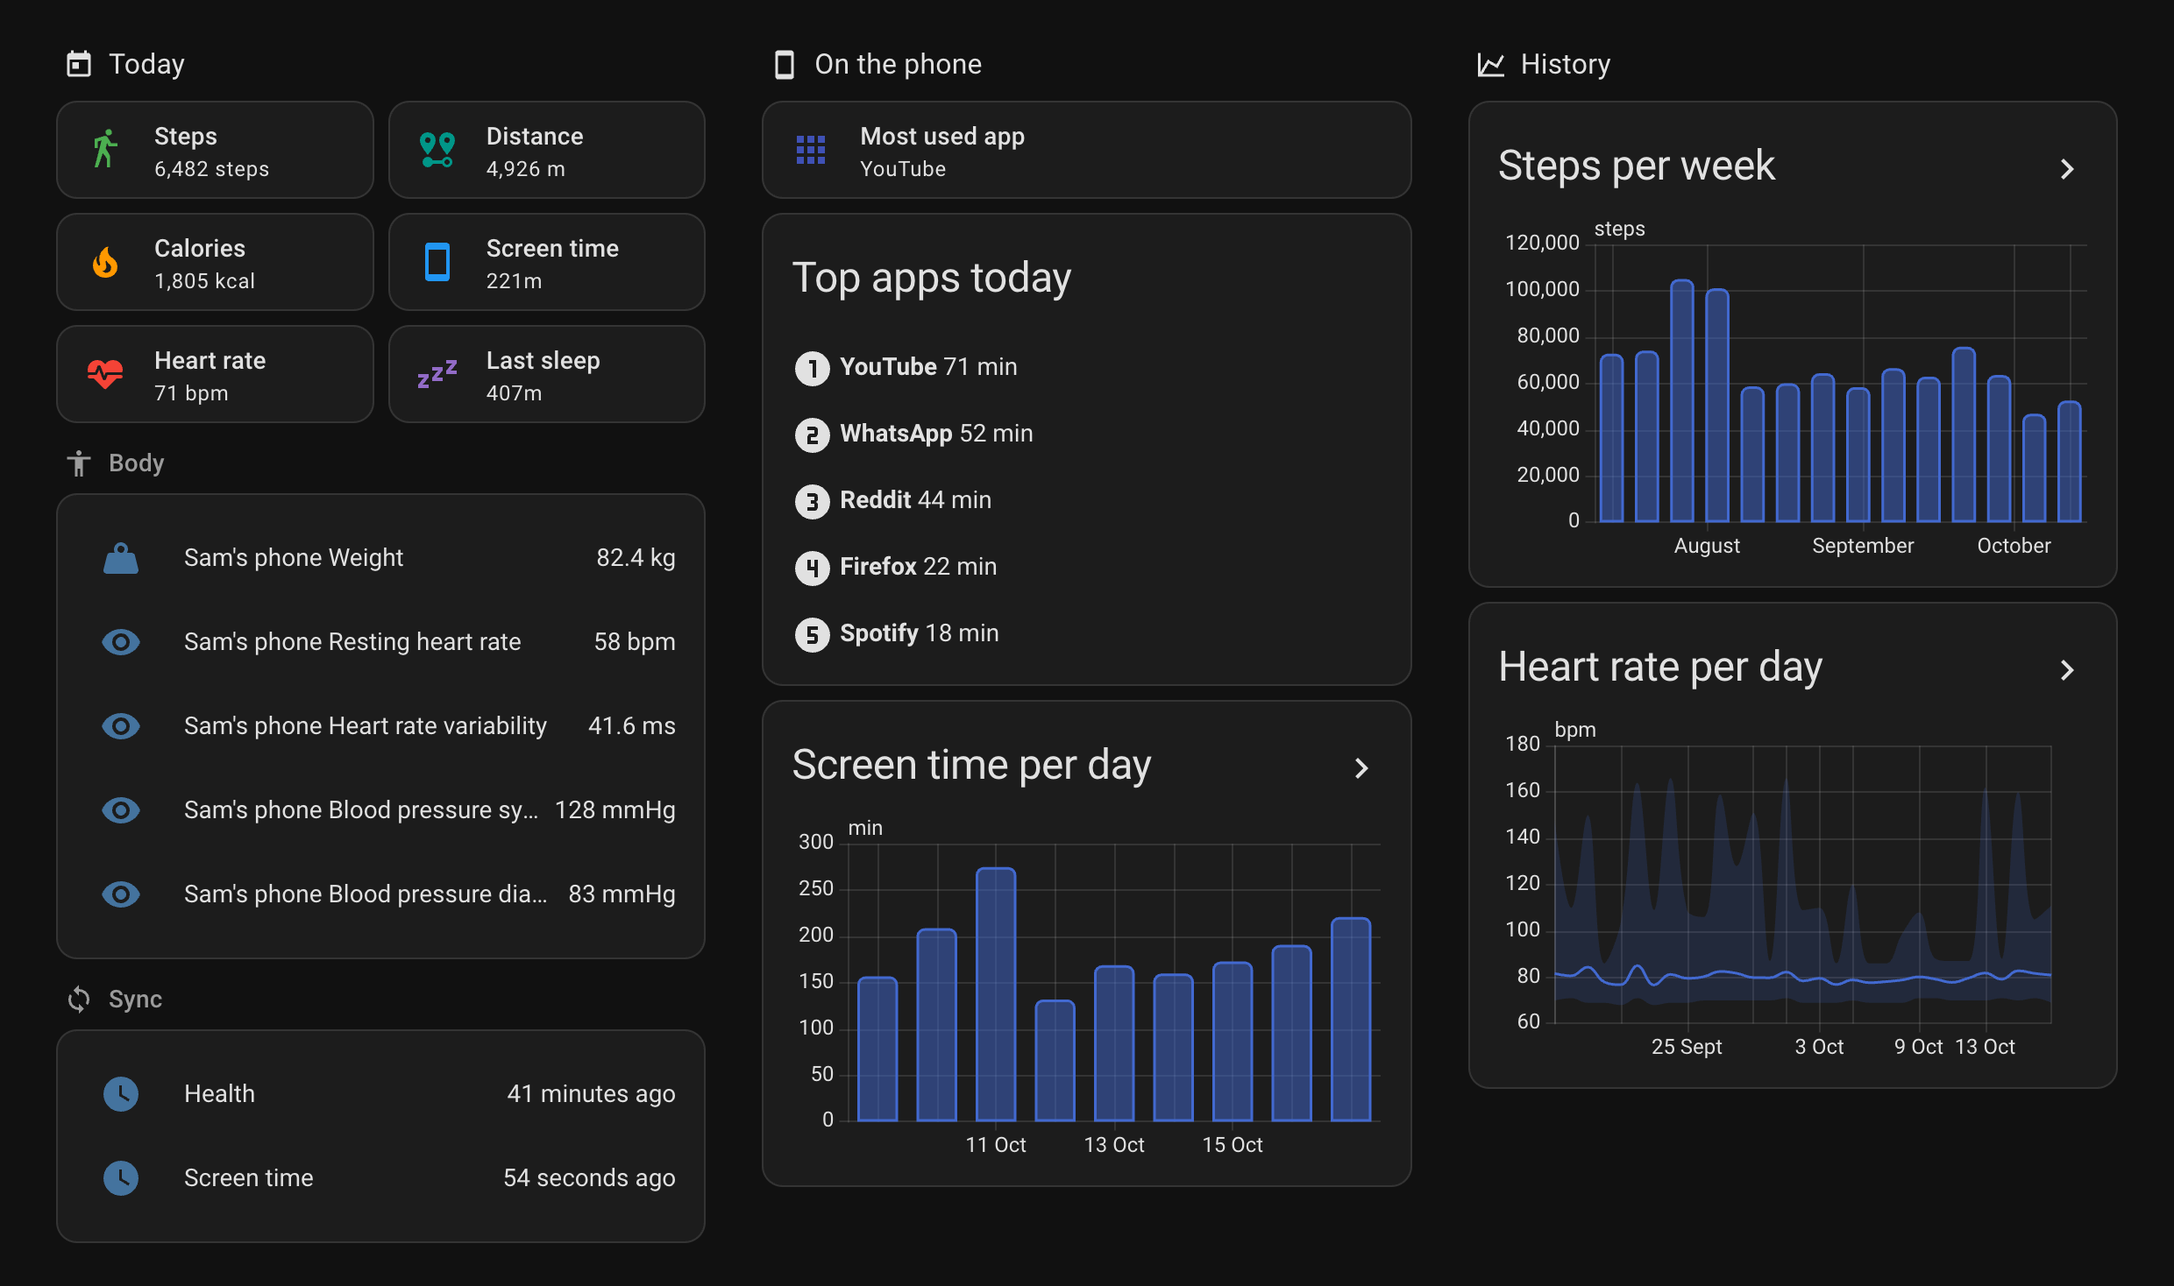
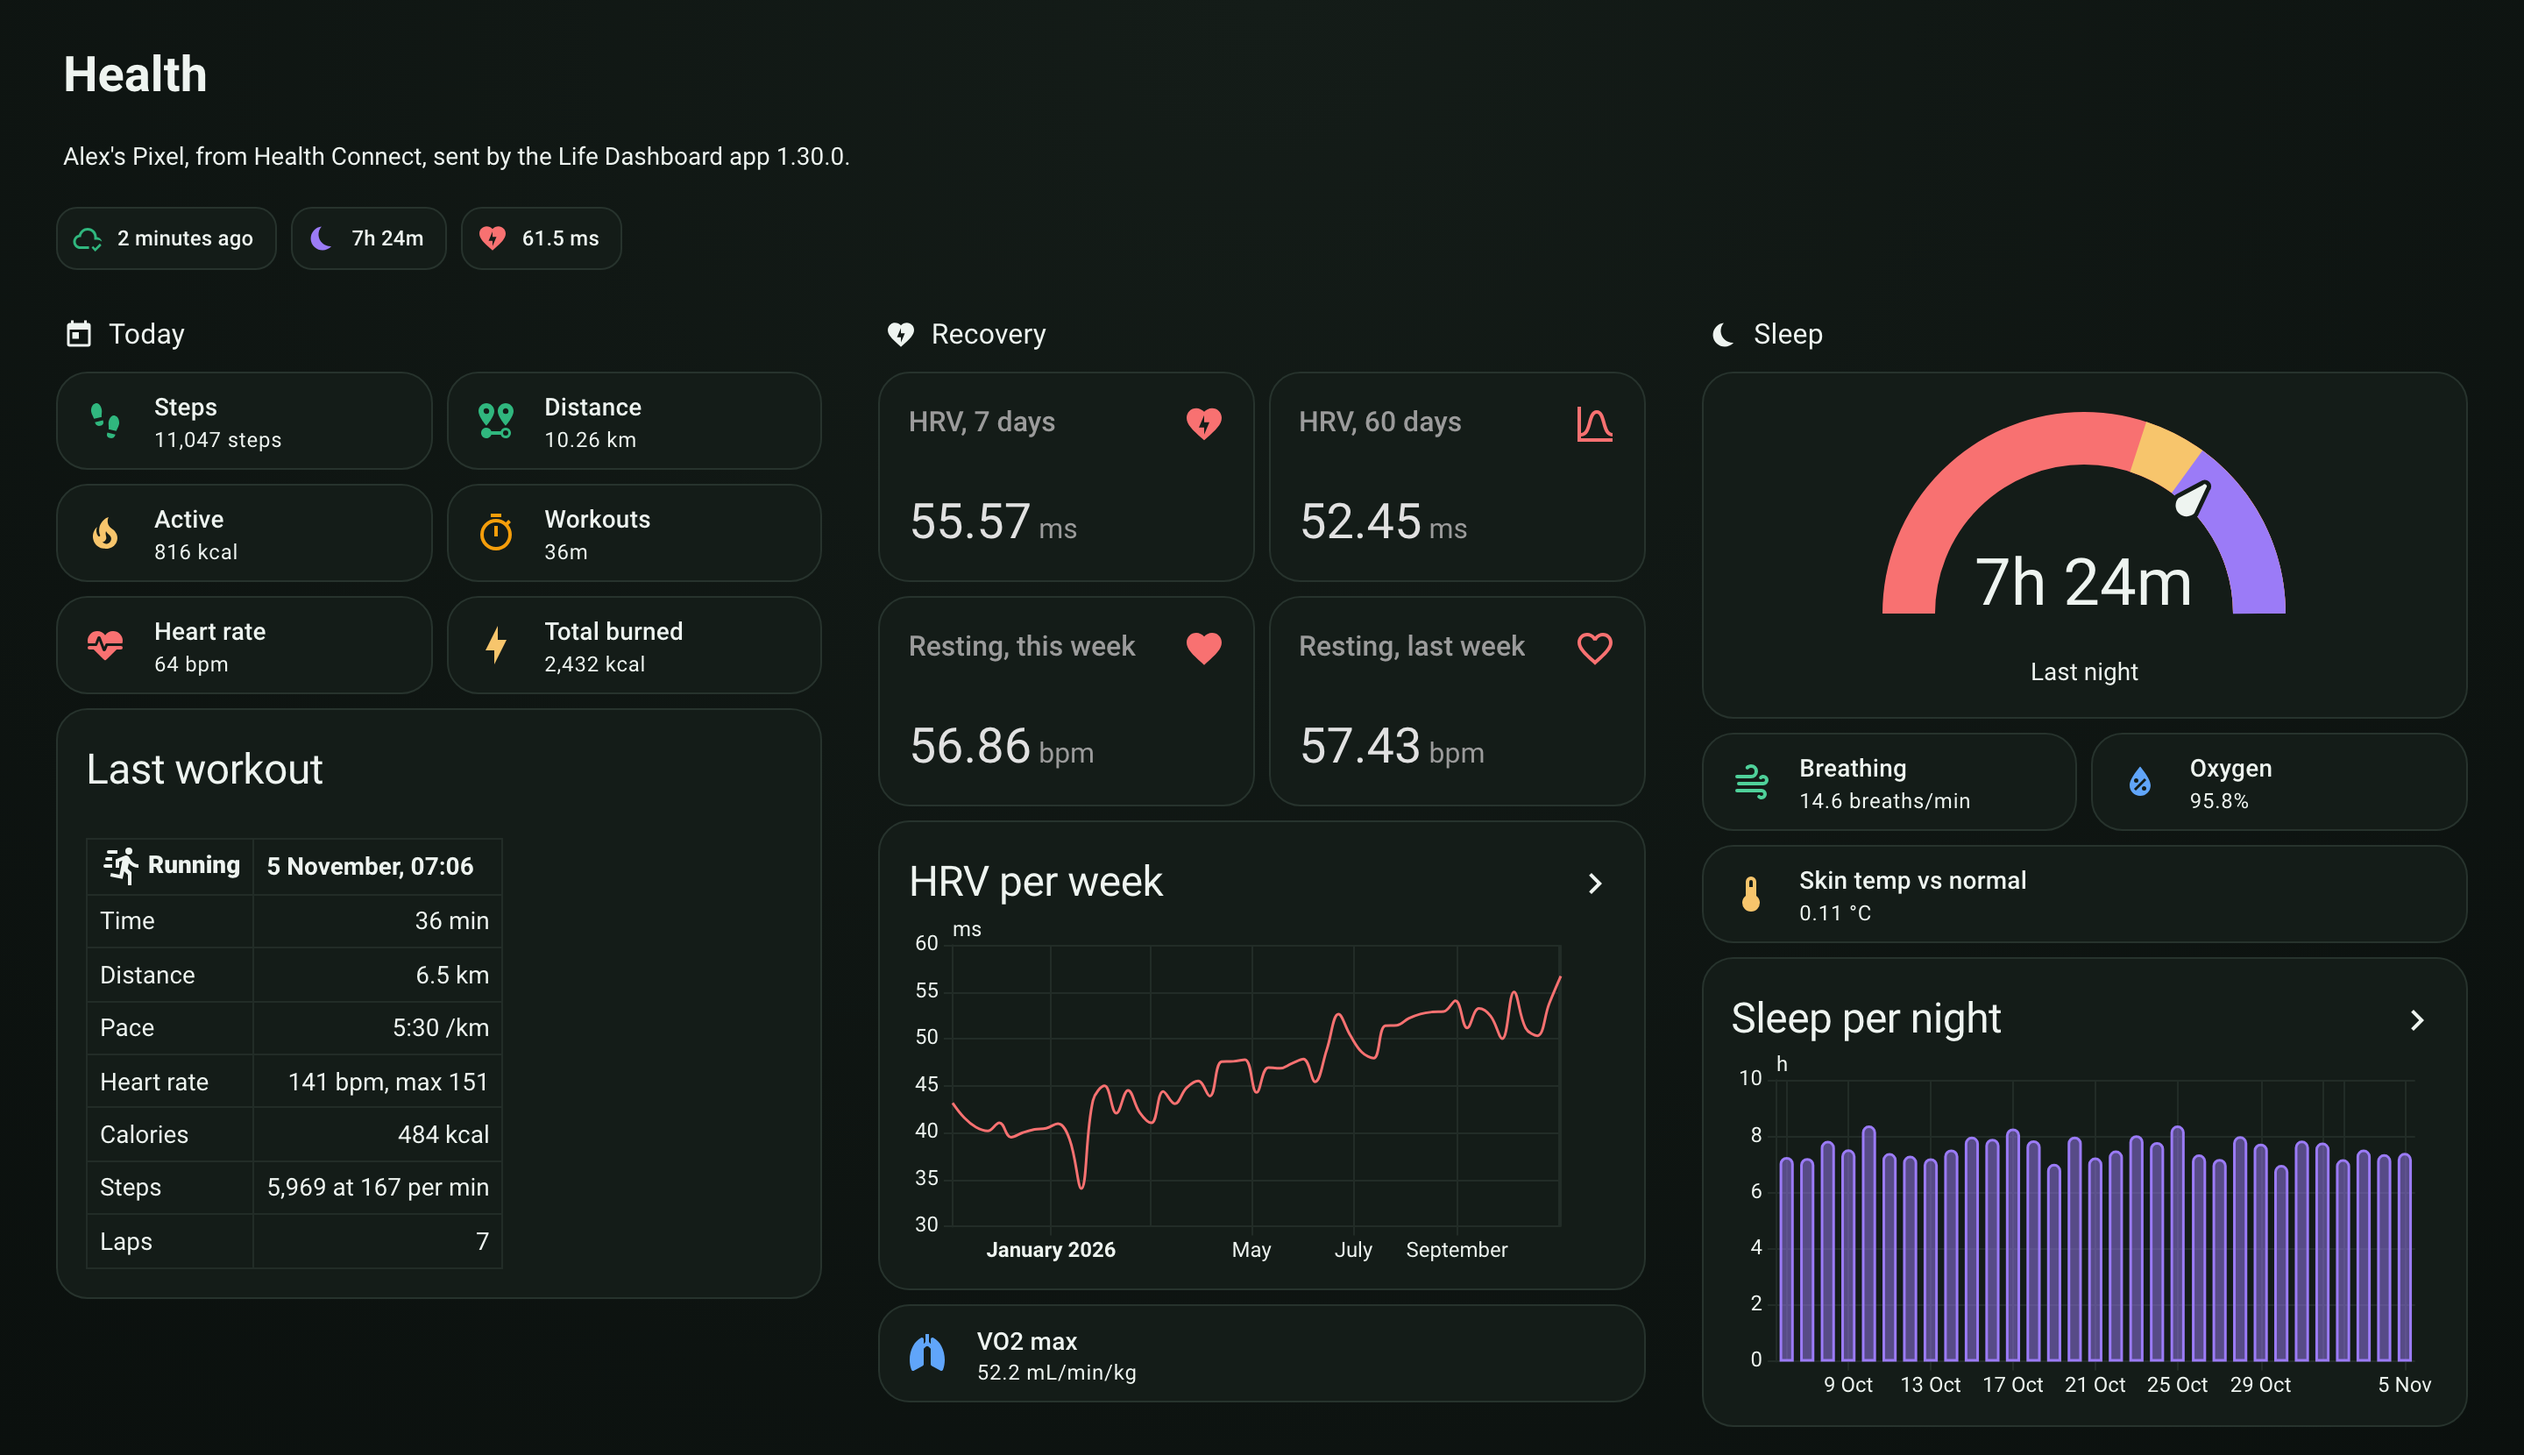
docs: Show the new Home Assistant dashboard in the README (#219)

diff --git a/docs/brand/readme-hero-phone.html b/docs/brand/readme-hero-phone.html
@@ -1,14 +1,15 @@
 <!DOCTYPE html>
 <!--
   Source for docs/readme-hero-phone.png, the phone version of the README hero
-  (readme-hero.html): two crops of the same dashboard screenshot, the Today tiles and the
-  screen time per day card, stacked so they stay readable on a screen about 400 px wide. The README
-  picks it with <picture> and a max-width media query. The crops are offsets into
-  docs/screenshots/home-assistant-dashboard.png (2480 x 1468) shown at 2837 px wide; after a
-  new screenshot, check that each crop still starts at a card edge.
+  (readme-hero.html): two crops, the Today tiles of the dashboard and the apps of the screen
+  time view, stacked so they stay readable on a screen about 400 px wide. The README picks it
+  with <picture> and a max-width media query. The crops are offsets into
+  docs/screenshots/home-assistant-dashboard.png and home-assistant-screen-time.png (both 2880
+  px wide) shown at 2883 px wide; after a new screenshot, check that each crop still starts at a
+  card edge.
 
     "/Applications/Google Chrome.app/Contents/MacOS/Google Chrome" \
-      --headless=new --screenshot=docs/readme-hero-phone.png --window-size=1000,1318 \
+      --headless=new --screenshot=docs/readme-hero-phone.png --window-size=1000,1438 \
       --hide-scrollbars --force-device-scale-factor=1 \
       --default-background-color=00000000 docs/brand/readme-hero-phone.html
 -->
@@ -17,7 +18,7 @@
 <meta charset="utf-8">
 <style>
   * { margin: 0; padding: 0; box-sizing: border-box; }
-  html, body { width: 1000px; height: 1318px; overflow: hidden; background: transparent; }
+  html, body { width: 1000px; height: 1438px; overflow: hidden; background: transparent; }
   .card {
     position: absolute; inset: 0; border-radius: 40px; overflow: hidden;
     background: radial-gradient(130% 130% at 25% 20%, #171D21 0%, #14181C 45%, #101C1C 100%);
@@ -34,18 +35,18 @@
     border: 3px solid rgba(255,255,255,0.12); background: #111;
     box-shadow: 0 24px 60px rgba(0,0,0,0.45), 0 0 0 10px rgba(255,255,255,0.025);
   }
-  .crop img { position: absolute; width: 2837px; height: auto; display: block; }
-  .today { top: 48px; height: 526px; }
-  .today img { left: -46px; top: -46px; }
-  .screen { top: 606px; height: 664px; }
-  .screen img { left: -967px; top: -903px; }
+  .crop img { position: absolute; width: 2883px; height: auto; display: block; }
+  .today { top: 48px; height: 470px; }
+  .today img { left: -49px; top: -344px; }
+  .screen { top: 550px; height: 840px; }
+  .screen img { left: -49px; top: -574px; }
 </style>
 </head>
 <body>
 <div class="card">
   <div class="grid"></div>
   <div class="crop today"><img src="../screenshots/home-assistant-dashboard.png" alt=""></div>
-  <div class="crop screen"><img src="../screenshots/home-assistant-dashboard.png" alt=""></div>
+  <div class="crop screen"><img src="../screenshots/home-assistant-screen-time.png" alt=""></div>
 </div>
 </body>
 </html>

diff --git a/docs/brand/readme-hero.html b/docs/brand/readme-hero.html
@@ -7,7 +7,7 @@
   update it.
 
     "/Applications/Google Chrome.app/Contents/MacOS/Google Chrome" \
-      --headless=new --screenshot=docs/readme-hero.png --window-size=1800,1040 \
+      --headless=new --screenshot=docs/readme-hero.png --window-size=1800,1078 \
       --hide-scrollbars --force-device-scale-factor=1 \
       --default-background-color=00000000 docs/brand/readme-hero.html
 -->
@@ -16,7 +16,7 @@
 <meta charset="utf-8">
 <style>
   * { margin: 0; padding: 0; box-sizing: border-box; }
-  html, body { width: 1800px; height: 1040px; overflow: hidden; background: transparent; }
+  html, body { width: 1800px; height: 1078px; overflow: hidden; background: transparent; }
   .card {
     position: absolute; inset: 0; border-radius: 40px; overflow: hidden;
     background: radial-gradient(130% 130% at 25% 20%, #171D21 0%, #14181C 45%, #101C1C 100%);
@@ -29,14 +29,14 @@
     background-size: 60px 60px;
   }
   .shot {
-    position: absolute; left: 48px; top: 48px; width: 1704px; height: 944px;
+    position: absolute; left: 48px; top: 48px; width: 1704px; height: 982px;
     border-radius: 24px; overflow: hidden;
     border: 3px solid rgba(255,255,255,0.12);
     box-shadow: 0 24px 60px rgba(0,0,0,0.45), 0 0 0 10px rgba(255,255,255,0.025);
   }
   /* The screenshot is a little taller than the frame: the crop leaves the space above the
      section headings and below the Sync card out, and keeps every card whole. */
-  .shot img { width: 100%; height: 100%; object-fit: cover; object-position: 50% 51%; display: block; }
+  .shot img { width: 100%; height: 100%; object-fit: cover; object-position: 50% 0%; display: block; }
 </style>
 </head>
 <body>

diff --git a/README.md b/README.md
@@ -67,12 +67,12 @@ Your watch, ring or scale already writes to Health Connect. This app sends that 
 
 Recipes to start from: a [bedtime reminder from your next alarm](docs/recipes/alarm-and-sleep.md), [screen time limits](docs/recipes/screen-time-limits.md), a [Bluetooth scale into Samsung Health](docs/recipes/scale-to-health-connect.md), and [asking a local LLM about your own history](docs/recipes/ask-your-own-llm.md).
 
-On the other end, this is the Life Dashboard integration's example dashboard in Home Assistant:
+On the other end, this is the Life Dashboard integration's [example dashboard](https://github.com/owen282000/life-dashboard-ha/blob/main/docs/dashboard.md) in Home Assistant, with a screen time view of its own (demo data):
 
 <p align="center">
   <picture>
     <source media="(max-width: 600px)" srcset="docs/readme-hero-phone.png">
-    <img src="docs/readme-hero.png" alt="The integration's example dashboard in Home Assistant: today's steps, distance, calories, screen time, heart rate and sleep, weight, resting heart rate and blood pressure, the top apps of the day, and charts of screen time and history" width="900">
+    <img src="docs/readme-hero.png" alt="The integration's example dashboard in Home Assistant: today's steps, distance, calories and heart rate, the last workout with its pace, heart rate and laps, recovery with heart rate variability, resting heart rate and VO2 max, and last night's sleep; on a phone, today's tiles and the time in each app" width="900">
   </picture>
 </p>
 
